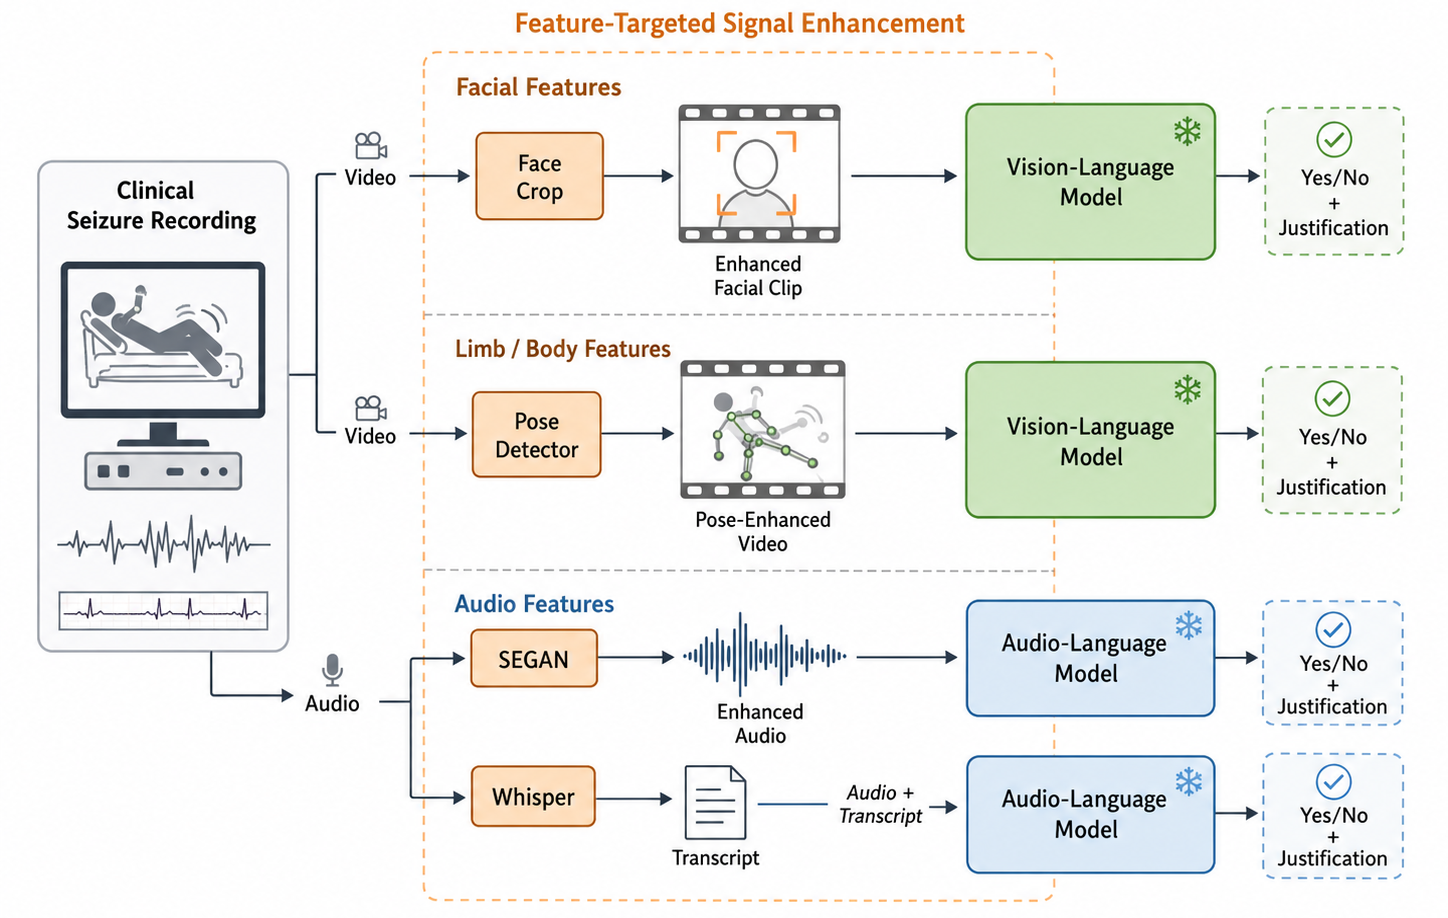
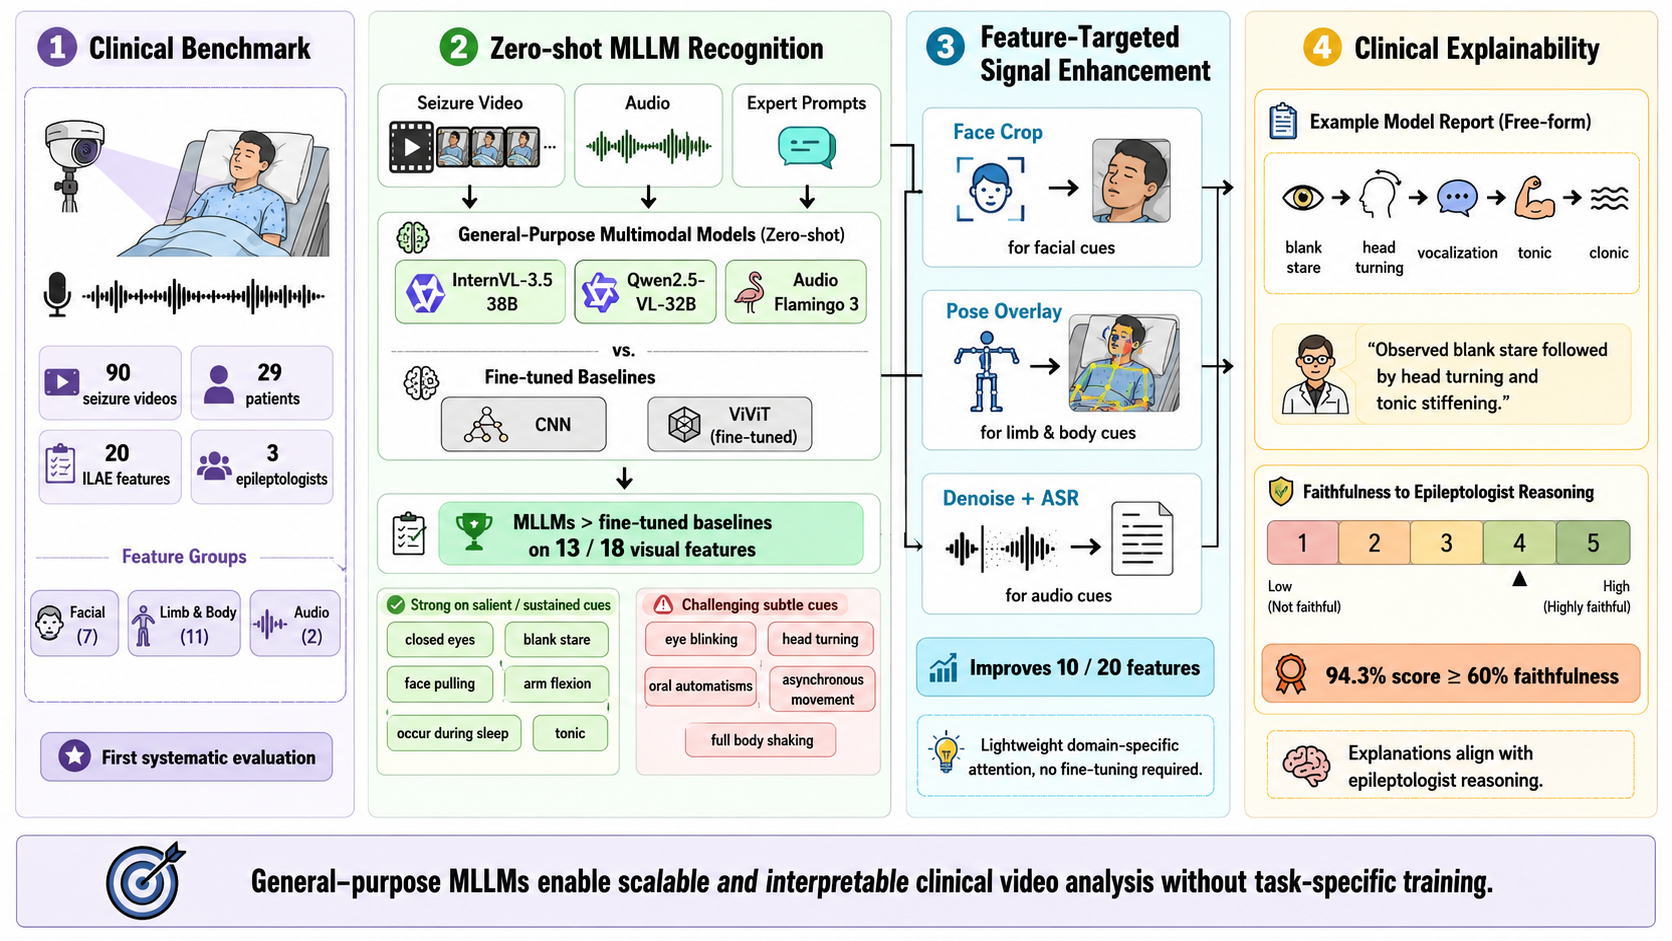
Add IROS 2026 papers, update Glance-Say, and expand coauthor links
- Add G2DP and Shift & Drift (both IROS 2026) with previews and news entry
- Rename Sticky-Glance to its latest arXiv v2 title Glance-Say (new authors, new preview)
- Reorder publications: year desc, first-author first, then venue tier (documented in papers.bib)
- Homepage highlights: custom order via selected_papers_order front matter
- Rename "Recent signals" to "News"; update bio venue list (add ICML, IROS)
- Expand coauthors.yml from 22 to 50 verified links; fix 2 dead links (X. Chen, J. Gall)

diff --git a/_sass/_homepage.scss b/_sass/_homepage.scss
@@ -377,6 +377,12 @@ body.home-page {
   border-top: 1px solid #2a241f;
 }
 
+/* Highlights render as one single-entry list per bib key (custom order);
+   only the first list keeps its top divider, entries stay separated by li borders. */
+.home-card--papers .publications ol.bibliography + ol.bibliography {
+  border-top: 0;
+}
+
 .home-card--papers .publications ol.bibliography li {
   padding: 1.15rem 0;
   border-top: 0;

diff --git a/_pages/about.md b/_pages/about.md
@@ -25,6 +25,14 @@ profile:
   address: >
 
 selected_papers: true # includes a list of papers marked as "selected={true}"
+selected_papers_order: # custom display order of the homepage publication highlights (bib keys)
+  - li2026spacedrive
+  - li2025ago
+  - zhang2024seflow
+  - li2023powerbev
+  - yu2026g2dp
+  - canevaro2026shift
+  - lai2026famhri
 social: true # includes social icons at the bottom of the page
 
 announcements:
@@ -40,7 +48,7 @@ latest_posts:
 
 My research focuses on building autonomous systems that can perceive, model, and reliably act in the 3D physical world, spanning 3D/4D dynamics scene understanding, open world modeling, spatial intelligence and embodied systems.
 
-I am a PhD researcher at the [University of Tübingen](https://uni-tuebingen.de/en) and [Mercedes-Benz AG R&D](https://www.mercedes-benz.com/en/), advised by [Prof. Andreas Geiger](https://www.cvlibs.net/) and [Prof. Andreas Zell](https://uni-tuebingen.de/en/fakultaeten/mathematisch-naturwissenschaftliche-fakultaet/fachbereiche/informatik/lehrstuehle/kognitive-systeme/the-chair/staff/prof-dr-andreas-zell/). My work bridges academic research and industrial-scale engineering, with publications at CVPR, ICCV, ECCV, and IJCAI as first or core author across four consecutive years.
+I am a PhD researcher at the [University of Tübingen](https://uni-tuebingen.de/en) and [Mercedes-Benz AG R&D](https://www.mercedes-benz.com/en/), advised by [Prof. Andreas Geiger](https://www.cvlibs.net/) and [Prof. Andreas Zell](https://uni-tuebingen.de/en/fakultaeten/mathematisch-naturwissenschaftliche-fakultaet/fachbereiche/informatik/lehrstuehle/kognitive-systeme/the-chair/staff/prof-dr-andreas-zell/). My work bridges academic research and industrial-scale engineering, with publications at CVPR, ICCV, ECCV, ICML, IJCAI, and IROS as first or core author.
 
 > _Getting AI into the physical world is pretty cool I guess._
 > {: .about-slogan }

diff --git a/_news/announcement_5.md b/_news/announcement_5.md
@@ -1,0 +1,8 @@
+---
+layout: post
+date: 2026-07-12
+inline: true
+related_posts: false
+---
+
+Two papers, [G2DP: Diffusion Planning with Spatio-Temporal Grid Guidance](https://arxiv.org/abs/2606.26017) and [Shift & Drift: A Zero-Shot Benchmark for Generalizable and Robust Autonomous Driving Motion Planning](https://arxiv.org/abs/2607.07844), are accepted by [IROS 2026](https://2026.ieee-iros.org/). 🎉
